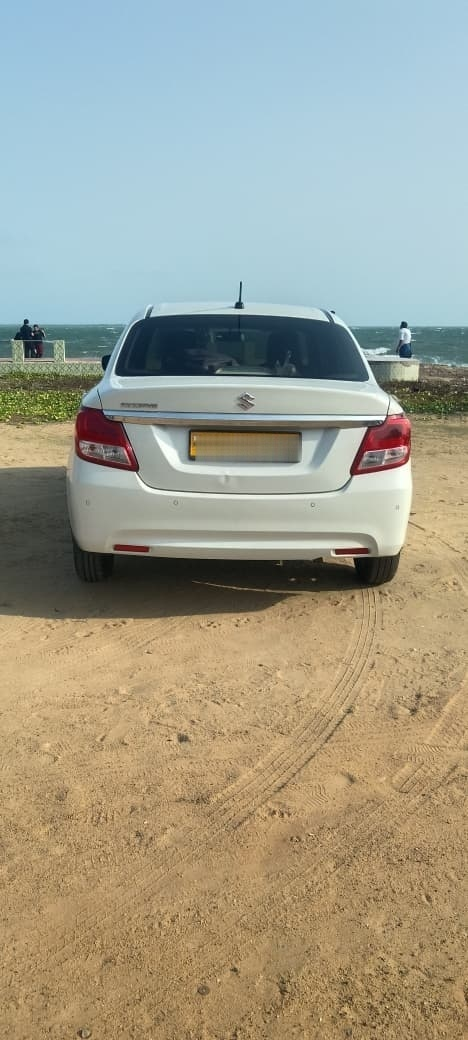
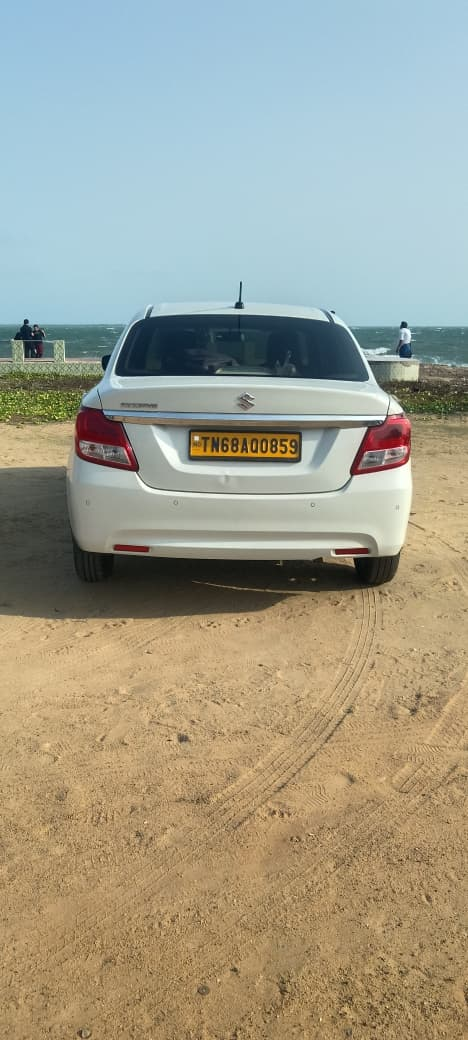
fix(gallery): restore original authentic car photos with license plates intact

Changed region(s): [[0.4188, 0.4, 0.6581, 0.4615]]

diff --git a/best/best-fe/src/pages/Gallery.jsx b/best/best-fe/src/pages/Gallery.jsx
@@ -889,10 +889,10 @@ const CARS_ITEMS = [
   {
     id: 'cars-2',
     category: 'cars',
-    title: 'Swift Dzire with Chauffeur',
+    title: 'Commercial Swift Dzire with Chauffeur',
     location: 'Doorstep Dispatch',
     badge: 'Sedan (4+1)',
-    desc: 'Neatly uniformed driver alongside a pristine white Swift Dzire ready for outstation pickup.',
+    desc: 'Neatly uniformed driver alongside pristine white commercial Swift Dzire ready for outstation pickup.',
     image: '/gallery/WhatsApp Image 2026-10-23 at 10.41.29 PM (1).jpeg',
     span: 'col-span-1 row-span-2'
   },
@@ -1029,20 +1029,20 @@ const CARS_ITEMS = [
   {
     id: 'cars-16',
     category: 'cars',
-    title: 'Swift Dzire Sedan with Chauffeur',
+    title: 'Commercial Dzire Sedan with Driver',
     location: 'Hotel Portico Dispatch',
     badge: 'Executive Sedan',
-    desc: 'Spotless white touring sedan with professional chauffeur outside hotel.',
+    desc: 'Spotless white commercial sedan with yellow board and professional driver outside hotel.',
     image: '/gallery/WhatsApp Image 2026-11-12 at 11.48.30 PM (1).jpeg',
     span: 'col-span-1 row-span-2'
   },
   {
     id: 'cars-17',
     category: 'cars',
-    title: 'Chauffeur with Touring Sedan in Hill Pass',
+    title: 'Driver with Commercial Sedan in Hill Pass',
     location: 'Western Ghats',
     badge: 'Hill Station Fleet',
-    desc: 'Reliable high-comfort touring vehicle ready for mountain ascents and hill stations.',
+    desc: 'Reliable commercial vehicle with yellow number plate ready for mountain ascents.',
     image: '/gallery/WhatsApp Image 2026-11-12 at 11.48.30 PM.jpeg',
     span: 'col-span-1 row-span-2'
   },
@@ -1052,7 +1052,7 @@ const CARS_ITEMS = [
     title: 'Toyota Innova Crysta with Travelers & Driver',
     location: 'Premium Outstation',
     badge: 'Innova Crysta (7+1)',
-    desc: 'Spacious Toyota Innova Crysta SUV parked at hotel entrance ready for outstation highway tour.',
+    desc: 'Spacious Toyota Innova Crysta SUV with yellow commercial license plate TN 11 W 2895 parked at hotel entrance ready for highway tour.',
     image: '/gallery/WhatsApp Image 2026-11-12 at 11.48.37 PM.jpeg',
     span: 'col-span-1 sm:col-span-2 row-span-1'
   }
